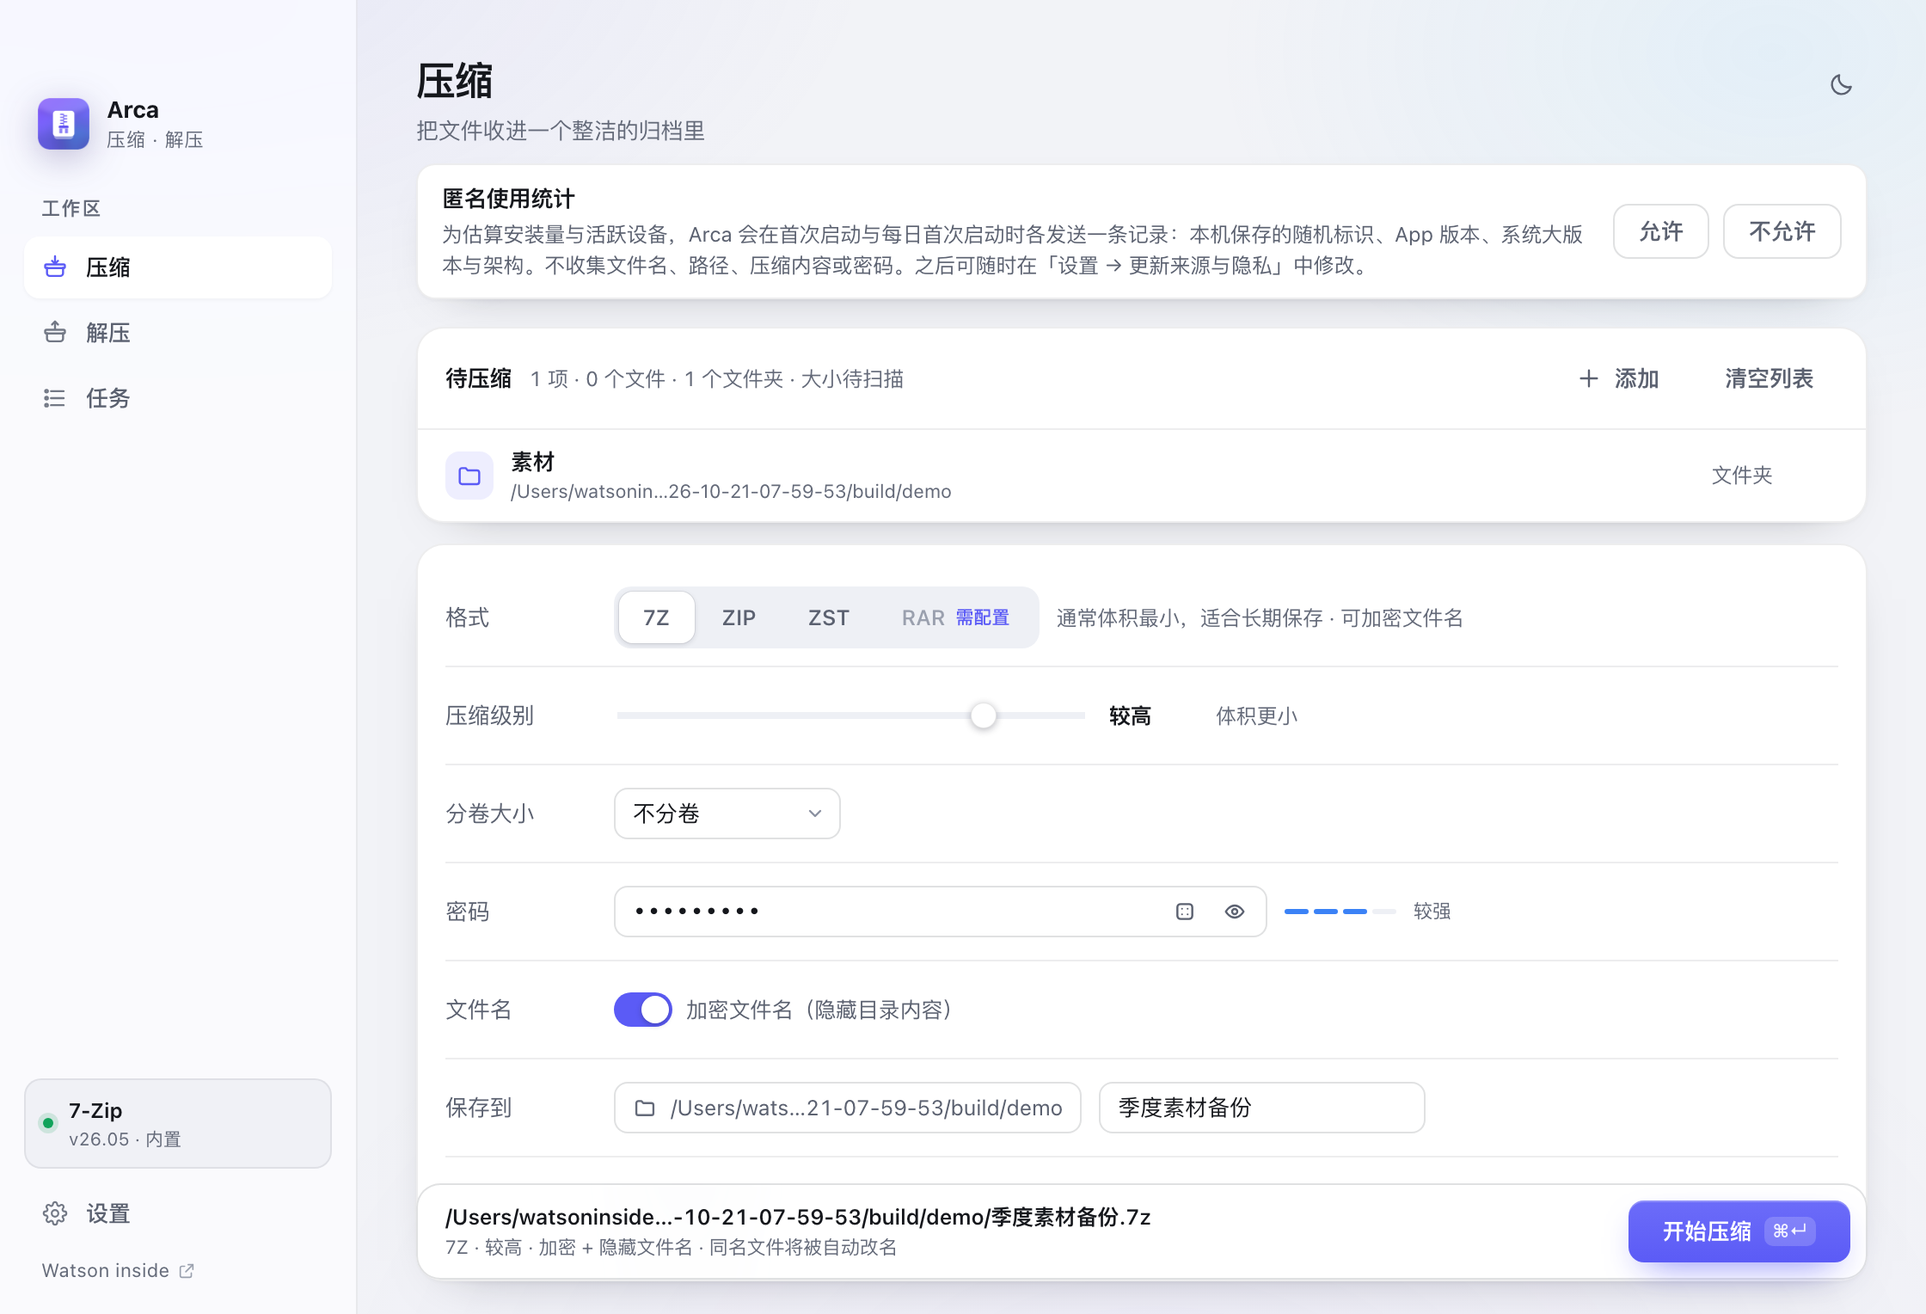
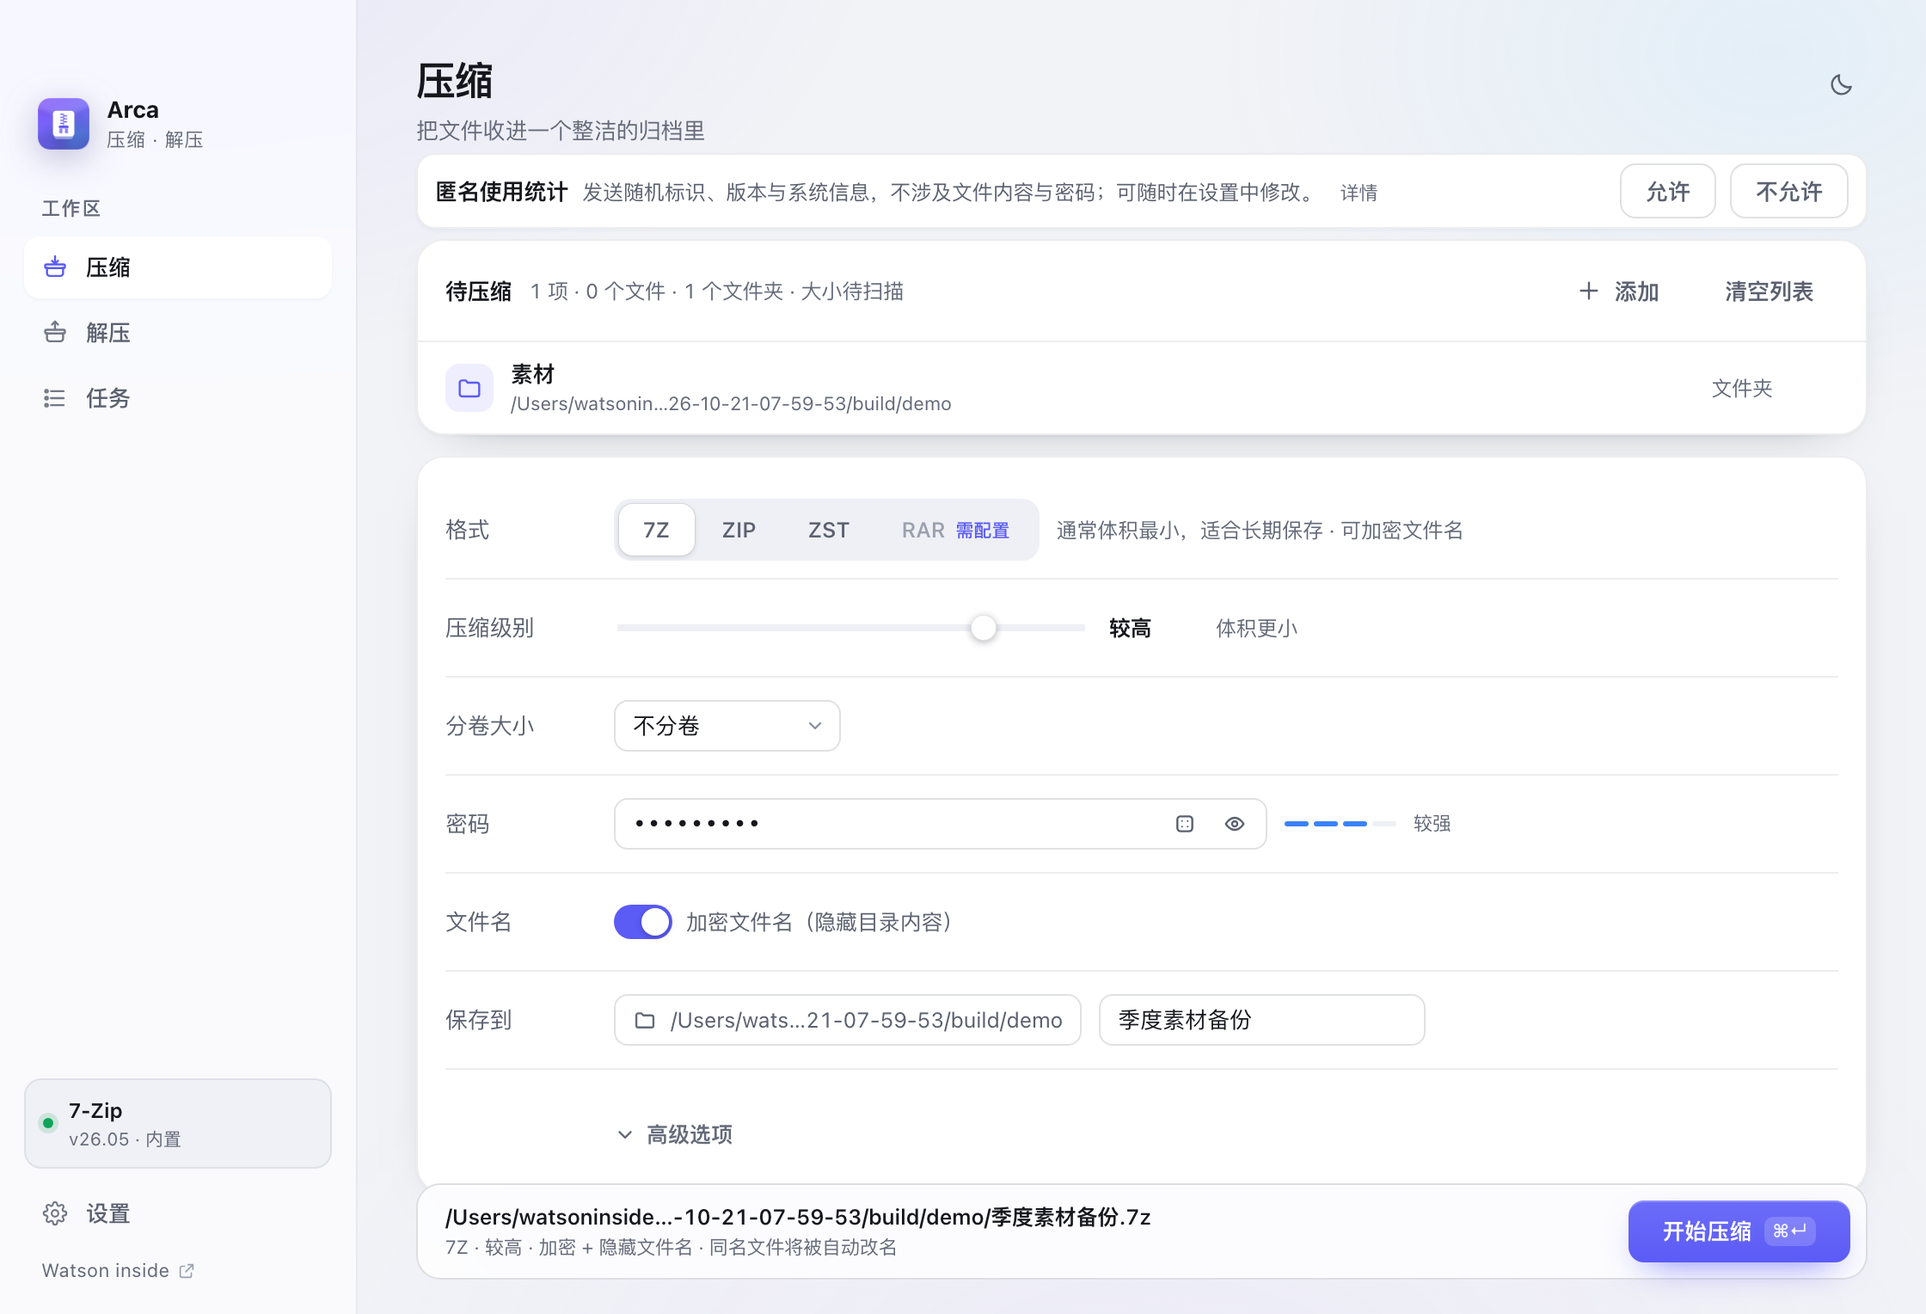
fix: review remediation -- HOME isolation, honest shots, compact notice
Two independent reviews both returned 'conditionally accepted' (8.7 /
8.6). This batch clears their findings:

- Real-home pollution (both, blocking): the 30 test entries in the real
  history.json are wiped (verified 30/30 test-sourced); make test-fast
  and direct selftest/integrity runs now force an isolated HOME, so no
  test path can write user state again.
- Screenshot evidence (review A, blocking): shots.py 12/13/14 used
  scrollTop on the non-scrolling sheet body -- a no-op that left three
  identical frames; they now open their respective fold groups and are
  regenerated. 08/09 regenerated from the update suites (09 via the
  real --full-update install flow); delivery doc wording corrected.
- First-launch notice compacted to one line plus a focusable details
  expander with body-level spacing compensation: the 高级选项 entry is
  visible above the action bar at 1120x764 with the notice present,
  and layout restores exactly when dismissed.
- menu_test gains a poll-focus regression lock: the cancel button of a
  running job keeps focus and node identity across >=2 poll cycles.
- Doc sync: README stats 17, AGENTS 20 suites, ENGINEERING-NOTES shot
  provenance, STATS-API sampling note (installs counted only after the
  user opts in), UI-WEEK review record with the deferred second batch.

make test 20/20 (menu 83/83, full-update path 39/0); real HOME stayed
at 0 entries throughout.

diff --git a/src/arca/web/styles.css b/src/arca/web/styles.css
@@ -1302,24 +1302,54 @@ table.entries .dir { color: var(--accent); }
 /* ---- first-launch stats notice -------------------------------------------
    One-time allow/deny choice; equal visual weight on purpose (no primary).
    Same column math as .topbar/.scroll so all edges line up. */
+/* 紧凑单行（复核 P5）：收起态 ~40px，别把「高级选项」入口挤进固定操作条后面；
+   完整披露收进内联「详情」展开器（DESIGN §7 的可聚焦展开器模式）。 */
 .stats-notice {
   display: flex;
   align-items: center;
-  gap: 14px;
+  gap: 12px;
   flex: none;
-  margin: 0 max(34px, calc((100% - var(--col)) / 2)) 10px;
-  padding: 10px 14px;
+  margin: 0 max(34px, calc((100% - var(--col)) / 2)) 6px;
+  padding: 5px 10px;
   background: var(--surface);
   border: 1px solid var(--line);
   border-radius: var(--r-md);
   box-shadow: var(--shadow-1);
 }
-.stats-notice .sn-body { flex: 1; min-width: 0; display: grid; gap: 2px; }
+.stats-notice .sn-body {
+  flex: 1;
+  min-width: 0;
+  display: flex;
+  align-items: baseline;
+  flex-wrap: wrap;
+  gap: 4px 8px;
+}
 .stats-notice .sn-body b { font-size: 13px; font-weight: 600; color: var(--ink); }
 .stats-notice .sn-body span {
   font-size: 12px;
+  line-height: 1.45;
+  color: var(--ink-2);
+}
+.stats-notice .sn-detail summary {
+  display: inline-block;
+  font-size: 11px;
+  color: var(--ink-3);
+  cursor: pointer;
+  border-radius: 4px;
+  padding: 0 3px;
+}
+.stats-notice .sn-detail summary:hover { color: var(--ink); background: var(--surface-3); }
+.stats-notice .sn-detail summary:focus-visible {
+  outline: 2px solid var(--accent);
+  outline-offset: 2px;
+}
+.stats-notice .sn-detail p {
+  flex-basis: 100%;
+  margin: 2px 0 0;
+  font-size: 12px;
   line-height: 1.5;
   color: var(--ink-2);
+  max-width: 72ch;
 }
 .stats-notice .sn-actions { display: flex; gap: 8px; flex-shrink: 0; }
 
@@ -1346,3 +1376,8 @@ table.entries .dir { color: var(--accent); }
   max-width: 52ch;
   overflow-wrap: anywhere;
 }
+
+/* 横幅在场时的过渡间距补偿：合计找回 ~12px，让 1120×764 首屏装下
+   「高级选项」入口；横幅消失即还原，常规布局零变化。 */
+body.stats-notice-on .topbar { padding-bottom: 4px; }
+body.stats-notice-on .scroll { padding-top: 0; }

diff --git a/src/arca/web/app.js b/src/arca/web/app.js
@@ -2217,17 +2217,24 @@ function renderStatsNotice() {
   bar.innerHTML = `
     <div class="sn-body">
       <b>匿名使用统计</b>
-      <span>为估算安装量与活跃设备，Arca 会在首次启动与每日首次启动时各发送一条记录：本机保存的随机标识、App 版本、系统大版本与架构。不收集文件名、路径、压缩内容或密码。之后可随时在「设置 → 更新来源与隐私」中修改。</span>
+      <span>发送随机标识、版本与系统信息，不涉及文件内容与密码；可随时在设置中修改。</span>
+      <details class="sn-detail">
+        <summary aria-label="展开统计发送内容详情">详情</summary>
+        <p>为估算安装量与活跃设备，Arca 会在首次启动与每日首次启动时各发送一条记录：本机保存的随机标识、App 版本、macOS 大版本与架构。不收集文件名、路径、压缩内容或密码。之后可随时在「设置 → 更新来源与隐私」中修改。</p>
+      </details>
     </div>
     <div class="sn-actions">
       <button class="btn ghost" id="sn-allow">允许</button>
       <button class="btn ghost" id="sn-deny">不允许</button>
     </div>`;
   topbar.after(bar);
+  // 横幅在场时收紧它与上下元素的过渡间距，给首屏内容找回高度（复核 P5）。
+  document.body.classList.add('stats-notice-on');
   const settle = async (allow) => {
     for (const b of bar.querySelectorAll('button')) b.disabled = true;
     await patchSettings({ statsPrompted: true, anonymousStats: allow });
     bar.remove();
+    document.body.classList.remove('stats-notice-on');
   };
   bar.querySelector('#sn-allow').onclick = () => settle(true);
   bar.querySelector('#sn-deny').onclick = () => settle(false);

diff --git a/scripts/menu_test.py b/scripts/menu_test.py
@@ -358,6 +358,71 @@ def main():
         else:
             check("归档条目右键菜单", False, "归档没有条目")
 
+        # ------------------------------------------- 轮询焦点稳定（专项回归锁）
+        # patchJobEl 必须幂等补丁：轮询重画时如果整卡（或取消按钮）被重建，
+        # 焦点立刻丢失、方向键断链。锁法：聚焦运行中任务卡的取消按钮，跨过
+        # 至少 2 个轮询周期（1.6s×2）后确认它仍是同一节点且保持焦点。
+        probe = os.path.join(DEMO, "focus-probe.bin")
+        os.makedirs(DEMO, exist_ok=True)
+        with open(probe, "wb") as fh:
+            fh.write(os.urandom(320 * 1024 * 1024))   # 随机数据 + 高级别，保证任务跑得过采样窗口
+        api(port, token, "/jobs/clear", {})
+        api(port, token, "/compress", {"inputs": [probe], "name": "焦点探针",
+                                       "destDir": DEMO, "format": "7z", "level": 7,
+                                       "par2Percent": 5})
+        # 任务页未激活时 renderQueue 不渲染，#q-list 恒空——用 ⌘3 切过去。
+        ui.js("document.dispatchEvent(new KeyboardEvent('keydown', "
+              "{key: '3', metaKey: true, bubbles: true, cancelable: true})); 'ok'")
+        time.sleep(1.0)
+        ui.js("delete window.__focusBtn")
+        samples = 0
+        gone = 0
+        broken = ""
+        finished = False
+        deadline = time.time() + 60
+        while time.time() < deadline and samples < 14 and not broken:
+            snap = ui.js("""(() => {
+              const card = document.querySelector('#q-list .job.running, #q-list .job.queued');
+              if (!card) return {gone: true};
+              const btn = card.querySelector('[data-cancel]');
+              if (!btn) return {gone: true};
+              if (!window.__focusBtn) window.__focusBtn = btn;
+              if (document.activeElement !== window.__focusBtn) window.__focusBtn.focus();
+              return {same: window.__focusBtn === btn,
+                      connected: window.__focusBtn.isConnected,
+                      focused: document.activeElement === window.__focusBtn};
+            })()""")
+            if snap is None:
+                time.sleep(0.3)
+                continue
+            if snap.get("gone"):
+                # 卡片还没渲染出来，或任务已结束（结束会重建 actions，属正常）
+                if samples > 0 and ui.js(
+                        "!!document.querySelector('#q-list .job.done, #q-list .job.error')"):
+                    finished = True
+                    break
+                gone += 1
+                if gone > 40:
+                    break
+            else:
+                gone = 0
+                samples += 1
+                if not (snap["same"] and snap["connected"] and snap["focused"]):
+                    broken = f"sample#{samples} {snap}"
+            time.sleep(0.45)
+        try:
+            os.remove(probe)
+        except OSError:
+            pass
+        api(port, token, "/jobs/clear", {})
+        check("轮询周期内任务卡焦点不丢（幂等补丁）",
+              (samples >= 8 or finished) and not broken,
+              f"samples={samples} finished={finished} {broken}")
+        # 回到解压页：后续用例依赖“drop 落在解压页”的隐式前提。
+        ui.js("document.dispatchEvent(new KeyboardEvent('keydown', "
+              "{key: '2', metaKey: true, bubbles: true, cancelable: true})); 'ok'")
+        time.sleep(0.8)
+
         # ------------------------------------------------------- zstd + PAR2
         # A .tar.zst plus recovery records is the only archive that can offer
         # the recovery entries, so it needs its own fixture.

diff --git a/scripts/shots.py b/scripts/shots.py
@@ -284,30 +284,33 @@ def main():
             time.sleep(0.4)
         shoot(ws, "05-settings.png")
 
-        # ---- same sheet scrolled to the component list (zstd / par2 updates)
+        # ---- 组件区：展开「更新来源与隐私」折叠组（统计开关 + 组件列表）。
+        # .sheet-body 按一屏规则不可滚动，scrollIntoView 是空操作（复核 P2），
+        # 三张设置特写改为各自展开对应的折叠组，保证画面互不相同。
         ws.call("Runtime.evaluate", {"expression": """
-          const s = document.querySelector('#set-components');
-          if (s) s.scrollIntoView({block: 'center'});
-          'ok'
-        """, "returnByValue": True})
+          (() => {
+            [...document.querySelectorAll('details.sheet-fold')]
+              .forEach(d => { d.open = d.textContent.includes('更新来源与隐私'); });
+            return 'ok';
+          })()""", "returnByValue": True})
         time.sleep(0.7)
         shoot(ws, "12-components.png")
 
         # ---- Finder 集成：右键服务区，然后默认打开方式区
         ws.call("Runtime.evaluate", {"expression": """
-          const body = document.querySelector('.sheet-body');
-          const sec = document.querySelector('#set-finder');
-          if (body && sec) body.scrollTop = sec.offsetTop - 8;
-          'ok'
-        """, "returnByValue": True})
+          (() => {
+            [...document.querySelectorAll('details.sheet-fold')]
+              .forEach(d => { d.open = d.textContent.includes('右键菜单细节'); });
+            return 'ok';
+          })()""", "returnByValue": True})
         time.sleep(1.0)
         shoot(ws, "13-finder.png")
         ws.call("Runtime.evaluate", {"expression": """
-          const body = document.querySelector('.sheet-body');
-          const sec = document.querySelector('#set-default');
-          if (body && sec) body.scrollTop = sec.offsetTop - 8;
-          'ok'
-        """, "returnByValue": True})
+          (() => {
+            [...document.querySelectorAll('details.sheet-fold')]
+              .forEach(d => { d.open = d.textContent.includes('逐项打开方式'); });
+            return 'ok';
+          })()""", "returnByValue": True})
         time.sleep(0.7)
         shoot(ws, "14-default.png")
 

diff --git a/scripts/selftest.py b/scripts/selftest.py
@@ -110,6 +110,11 @@ def compare(dest, payloads):
 
 
 def main():
+
+    # 直接运行也必须隔离 HOME：本套件经 Settings/JobManager 写任务历史，
+    # 落进真实 ~/Library/Application Support/Arca/ 就违反 §1.1.7。
+    # （all_test 传入的隔离 HOME 会被替换成另一个空 HOME，行为不变。）
+    os.environ["HOME"] = tempfile.mkdtemp(prefix="arca-selftest-home-")
     tmp = tempfile.mkdtemp(prefix="arca-test-")
     src, payloads = build_samples(tmp)
     out_dir = os.path.join(tmp, "out")

diff --git a/scripts/integrity_test.py b/scripts/integrity_test.py
@@ -136,6 +136,11 @@ def flip_byte(path, offset):
 
 
 def main():
+
+    # 直接运行也必须隔离 HOME：本套件经 Settings/JobManager 写任务历史，
+    # 落进真实 ~/Library/Application Support/Arca/ 就违反 §1.1.7。
+    # （all_test 传入的隔离 HOME 会被替换成另一个空 HOME，行为不变。）
+    os.environ["HOME"] = tempfile.mkdtemp(prefix="arca-selftest-home-")
     tmp = tempfile.mkdtemp(prefix="arca-int-")
     src, payloads = build_samples(tmp)
     out_dir = os.path.join(tmp, "out")

diff --git a/docs/UI-WEEK-2026-10.md b/docs/UI-WEEK-2026-10.md
@@ -14,7 +14,8 @@
 | `337a3f3` | Day 2 任务中心 |
 | `4f80a66` | Day 3+4 主流程与空态视觉 |
 | `1e0c1f8` | Day 5 可达性 |
-| （本次提交） | Day 7 截图重生成、DESIGN.md 同步、本交付文档 |
+| `a20e36e` | Day 7 截图重生成、DESIGN.md 同步、本交付文档 |
+| （复核后提交） | 两份独立复核的整改：见文末「复核与整改记录」 |
 
 ## 变更摘要（按任务书 §16.1 分类）
 
@@ -65,12 +66,13 @@
   radiogroup 转换、6 处断言随语义更新）。
 - 分日端到端验证（headless 实例 + Chrome CDP 驱动真实前端，脚本在
   `build/verify_*.py`，可重复执行）：
-  - 隐私：10/10（含视觉模型对横幅截图的确认）
+  - 隐私：10/10（横幅截图另经人工目检；复核指出该目检不可复现，如实记为过程证据）
   - 任务中心：11/11
   - Day 3/4：10/10
   - Day 5：9/9
-- 截图全部从当前代码重新生成（`make shots` + 更新套件）；目录中不再保留
-  没有生成者的历史截图（删除 00-drag、15–18，文档清单已同步）。
+- 截图由当前代码重新生成：01–07、10–14 出自 `make shots`（12/13/14 为各自
+  折叠组的展开特写）；08/09 出自更新套件（08 为检查更新对话框，09 仅在
+  真实安装流程后产出）。目录中不再保留没有生成者的历史截图。
 - 基线说明：任务书 §2.2 提到的 selftest 分卷夹具 `._*` 污染在本仓库当前
   状态**无法复现**（夹具目录零 `._` 文件，selftest 38/38 通过）；防再污染
   加固未做，见「已知限制」。
@@ -103,3 +105,21 @@ build/venv/bin/python -S -E build/verify_day5.py        # 可达性 9 项
 
 本轮 UI 改动**未随任何发布打包**；发布 1.0.9 时需按标准流程
 （bump → bundle → package → publish → 用户确认后 Release）。
+
+## 复核与整改记录（2026-10-24，两份独立复核后）
+
+两位独立审核方结论均为「有条件通过」（8.7 与 8.6）。整改批次：
+
+1. **真实 HOME 污染**（两家共同阻断项）：30 条测试历史已清空（30/30 全为
+   测试条目）；`make test-fast` 与 selftest/integrity 直跑改为强制隔离 HOME，
+   断根。
+2. **截图证据**（A 阻断项）：`shots.py` 12/13/14 由无效的 scrollTop 改为
+   各自折叠组展开特写并重生成；08/09 由更新套件重生成；本文截图声明更正。
+3. **首启横幅紧凑化**（A 独有发现）：单行摘要 + 内联「详情」展开器，
+   1120×764 首屏可见「高级选项」入口。
+4. **menu_test 新增「轮询周期内任务卡焦点不丢」专项断言**（两家共识缺口）。
+5. 文档数字同步（README stats 17、AGENTS 20 套件）、STATS-API 补样本口径
+   注记（允许后才计数）、五人测试延期与 Day 6 缺口由产品在对话中确认。
+
+下轮处理：夹具改生成到 gitignored 目录（根治提交噪声）、隐私零请求的
+mock 计数测试、`._*` 防污染加固、截图可复现性前置条件说明。

diff --git a/docs/ENGINEERING-NOTES.md b/docs/ENGINEERING-NOTES.md
@@ -391,7 +391,7 @@ rar encoder : RAR 只读（未安装 WinRAR 命令行）
 断言里的版本号一律取接口回报的 `latest`，不写死；上游刚发的 **26.05**（2026-10-21）因此
 自动进入清单（16 行），并补了人工中文摘要。写这一轮时本机代理对 `7-zip.org` 返回
 502，`--install` 停在下载阶段（32/37，5 项失败全是下载失败导致），属网络环境问题；
-非安装流程 25 项全通过，`08-update.png` 已是 26.05 的对话框。
+非安装流程 25 项全通过，`08-update.png` 展示的是检查更新对话框（版本号随上游实时变化，由更新套件重新生成）。
 
 `scripts/design_audit.py` 把 `docs/DESIGN.md` 里能机械判定的规则跑一遍（不需要模型、
 可进 CI）：动效（`transition: all`、UI 用 ease-in、`scale(0)` 进入、交互反馈超 300ms）、

diff --git a/docs/STATS-API.md b/docs/STATS-API.md
@@ -73,6 +73,8 @@ Arca App 在「首次启动」和「每日首次启动」时各发一条匿名 G
 
 ### 口径说明（画图前必读）
 
+- **样本口径**：安装事件只在用户于首启横幅选择「允许」后才会发送；拒绝或始终未选择的设备不会出现在任何统计中。因此各项数字衡量的是「允许统计的设备」，低于真实安装量是设计使然，不是漏报。
+
 - **installs 的两处口径不同**：`totals.installs` 与 `platforms[].installs` 是
   **去重设备数**；`versions[].installs` 是**安装事件数**（用户从 1.0.5 升级到
   1.0.6 会被计进两个版本，因为发生了两次 install 事件）。`active30d` 统一为

diff --git a/AGENTS.md b/AGENTS.md
@@ -29,7 +29,7 @@ Arca：macOS 原生压缩/解压应用。C 启动器（dlopen libpython）+ Pyth
 ## 常用命令（等价 Makefile）
 
 ```bash
-make test          # 全量门禁（19 套件，~1-2 分钟，发布前必须过）
+make test          # 全量门禁（20 套件，~1-2 分钟，发布前必须过）
 make test-fast     # node --check + design_audit + selftest + progress（快速反馈）
 make audit         # 设计规则确定性检查（0 = 干净）
 make bundle        # 组装 release/Arca.app
